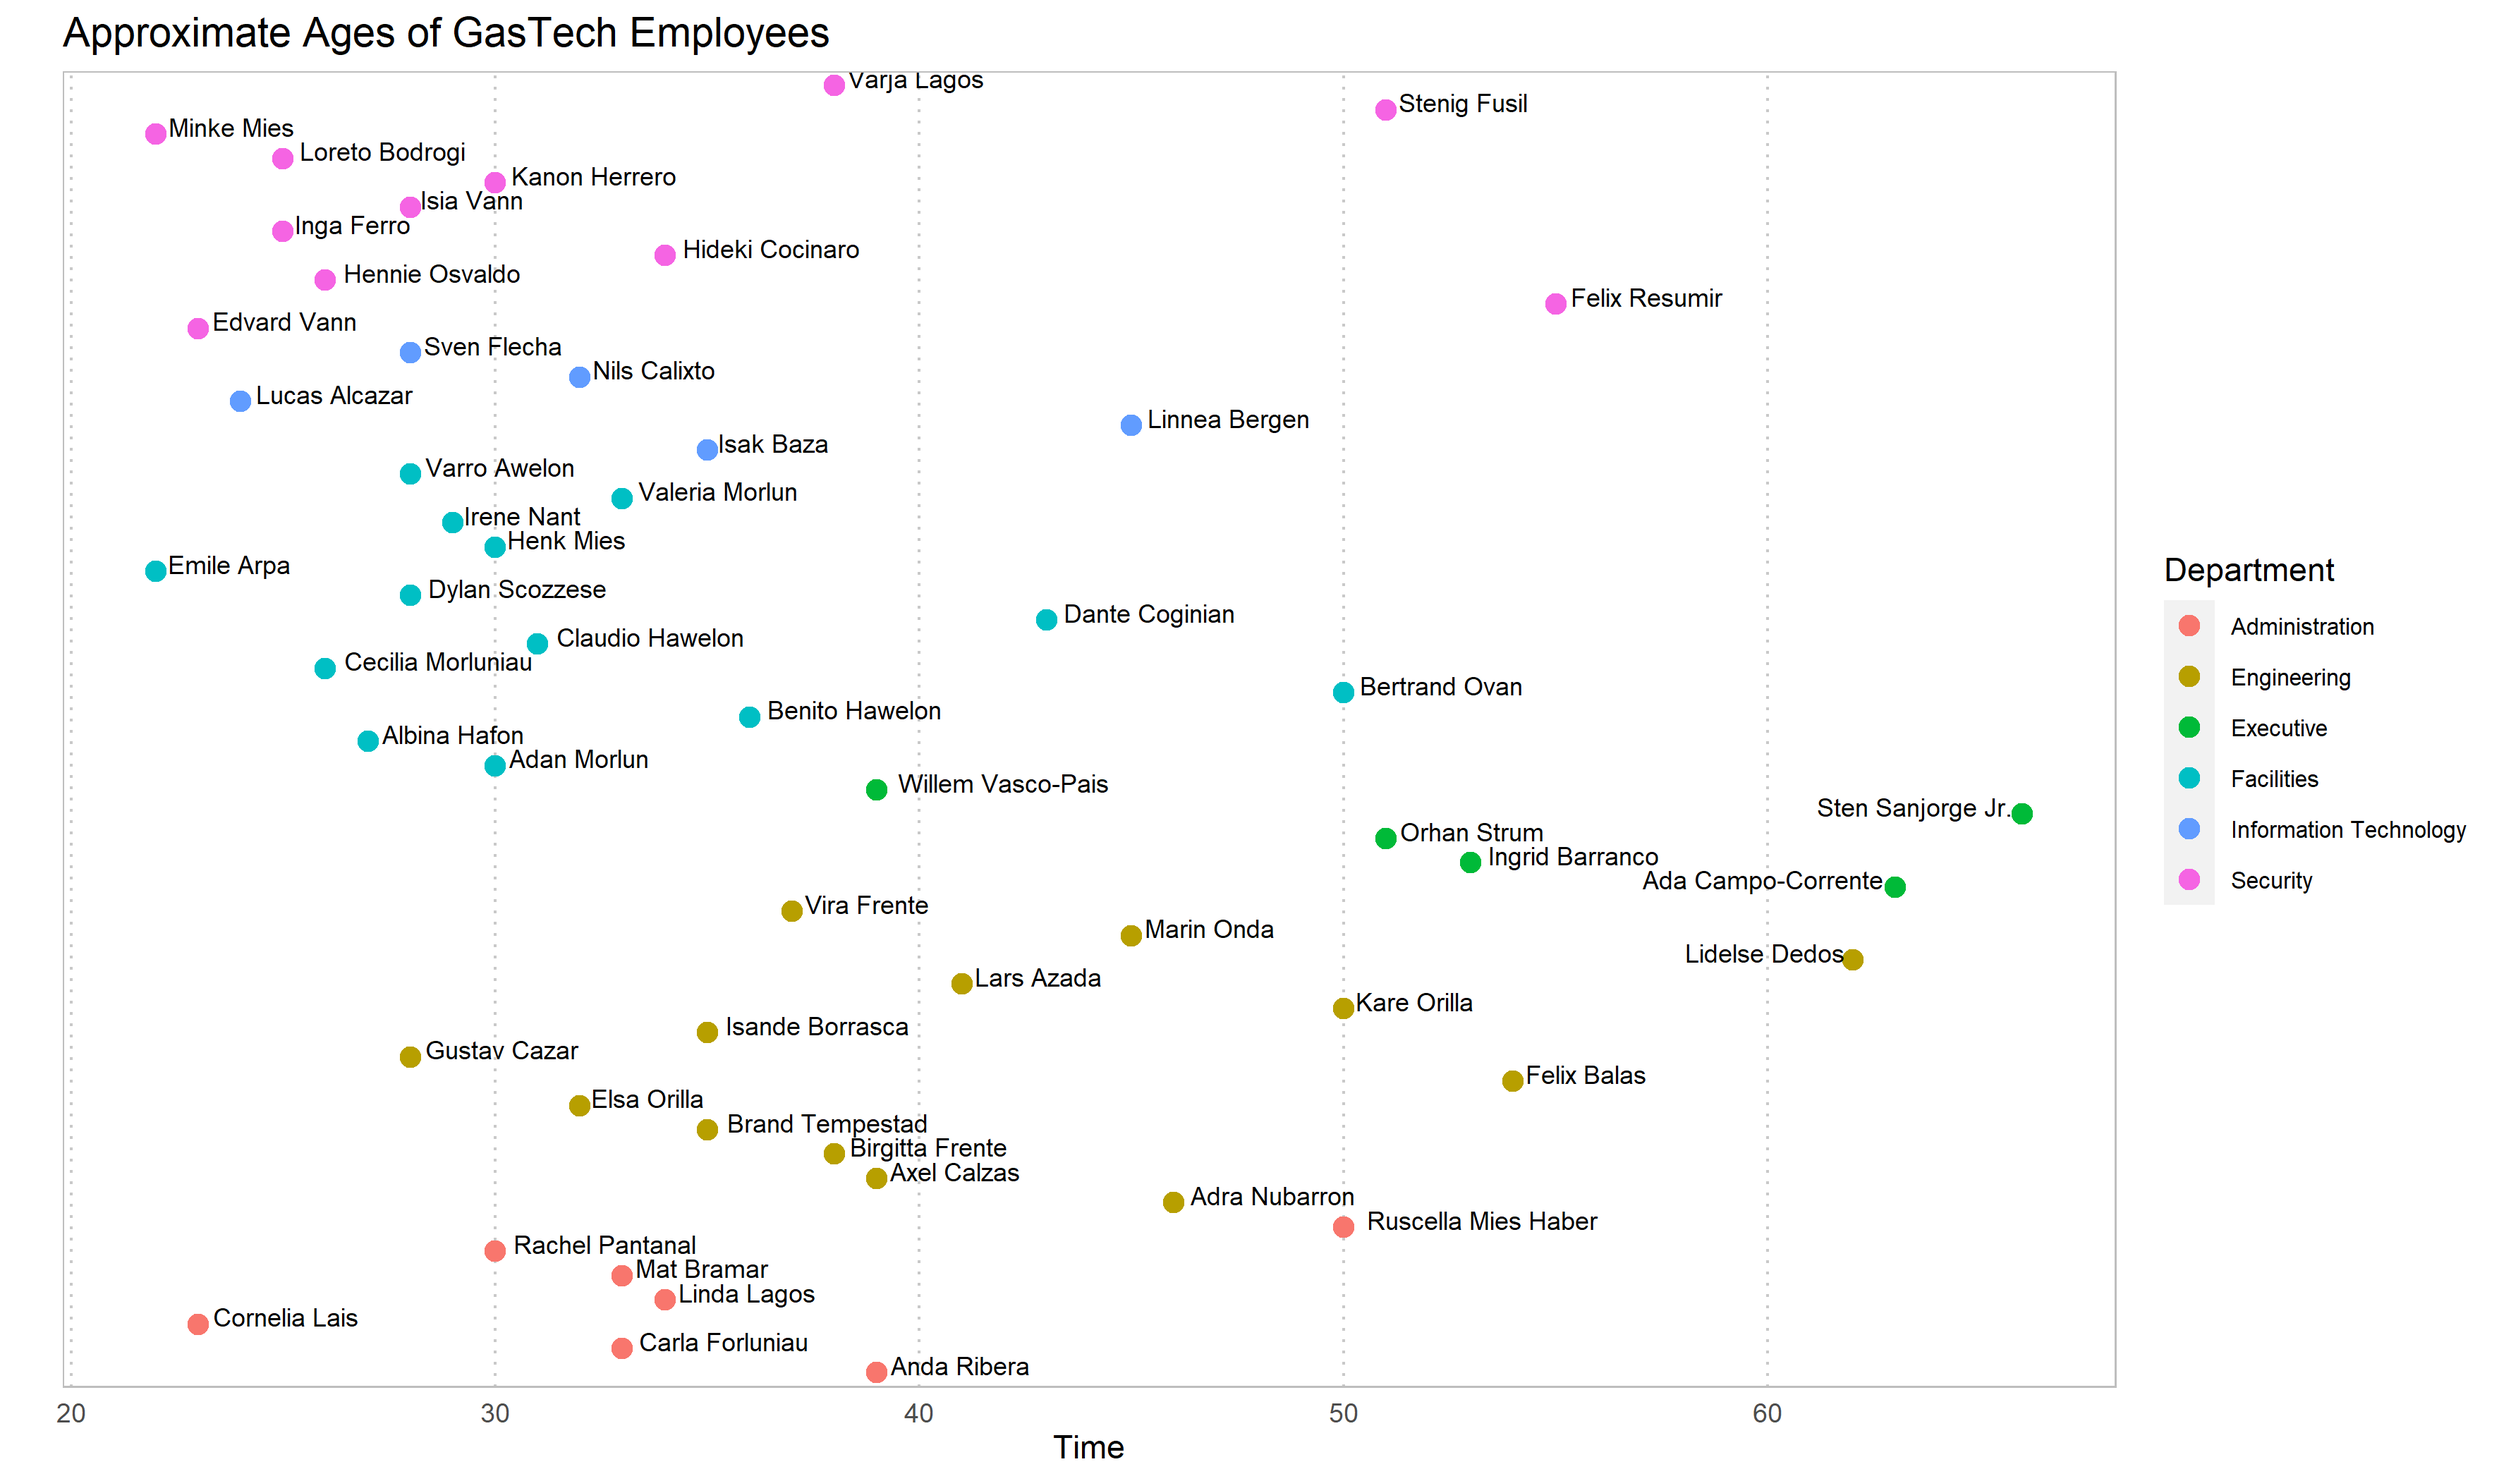
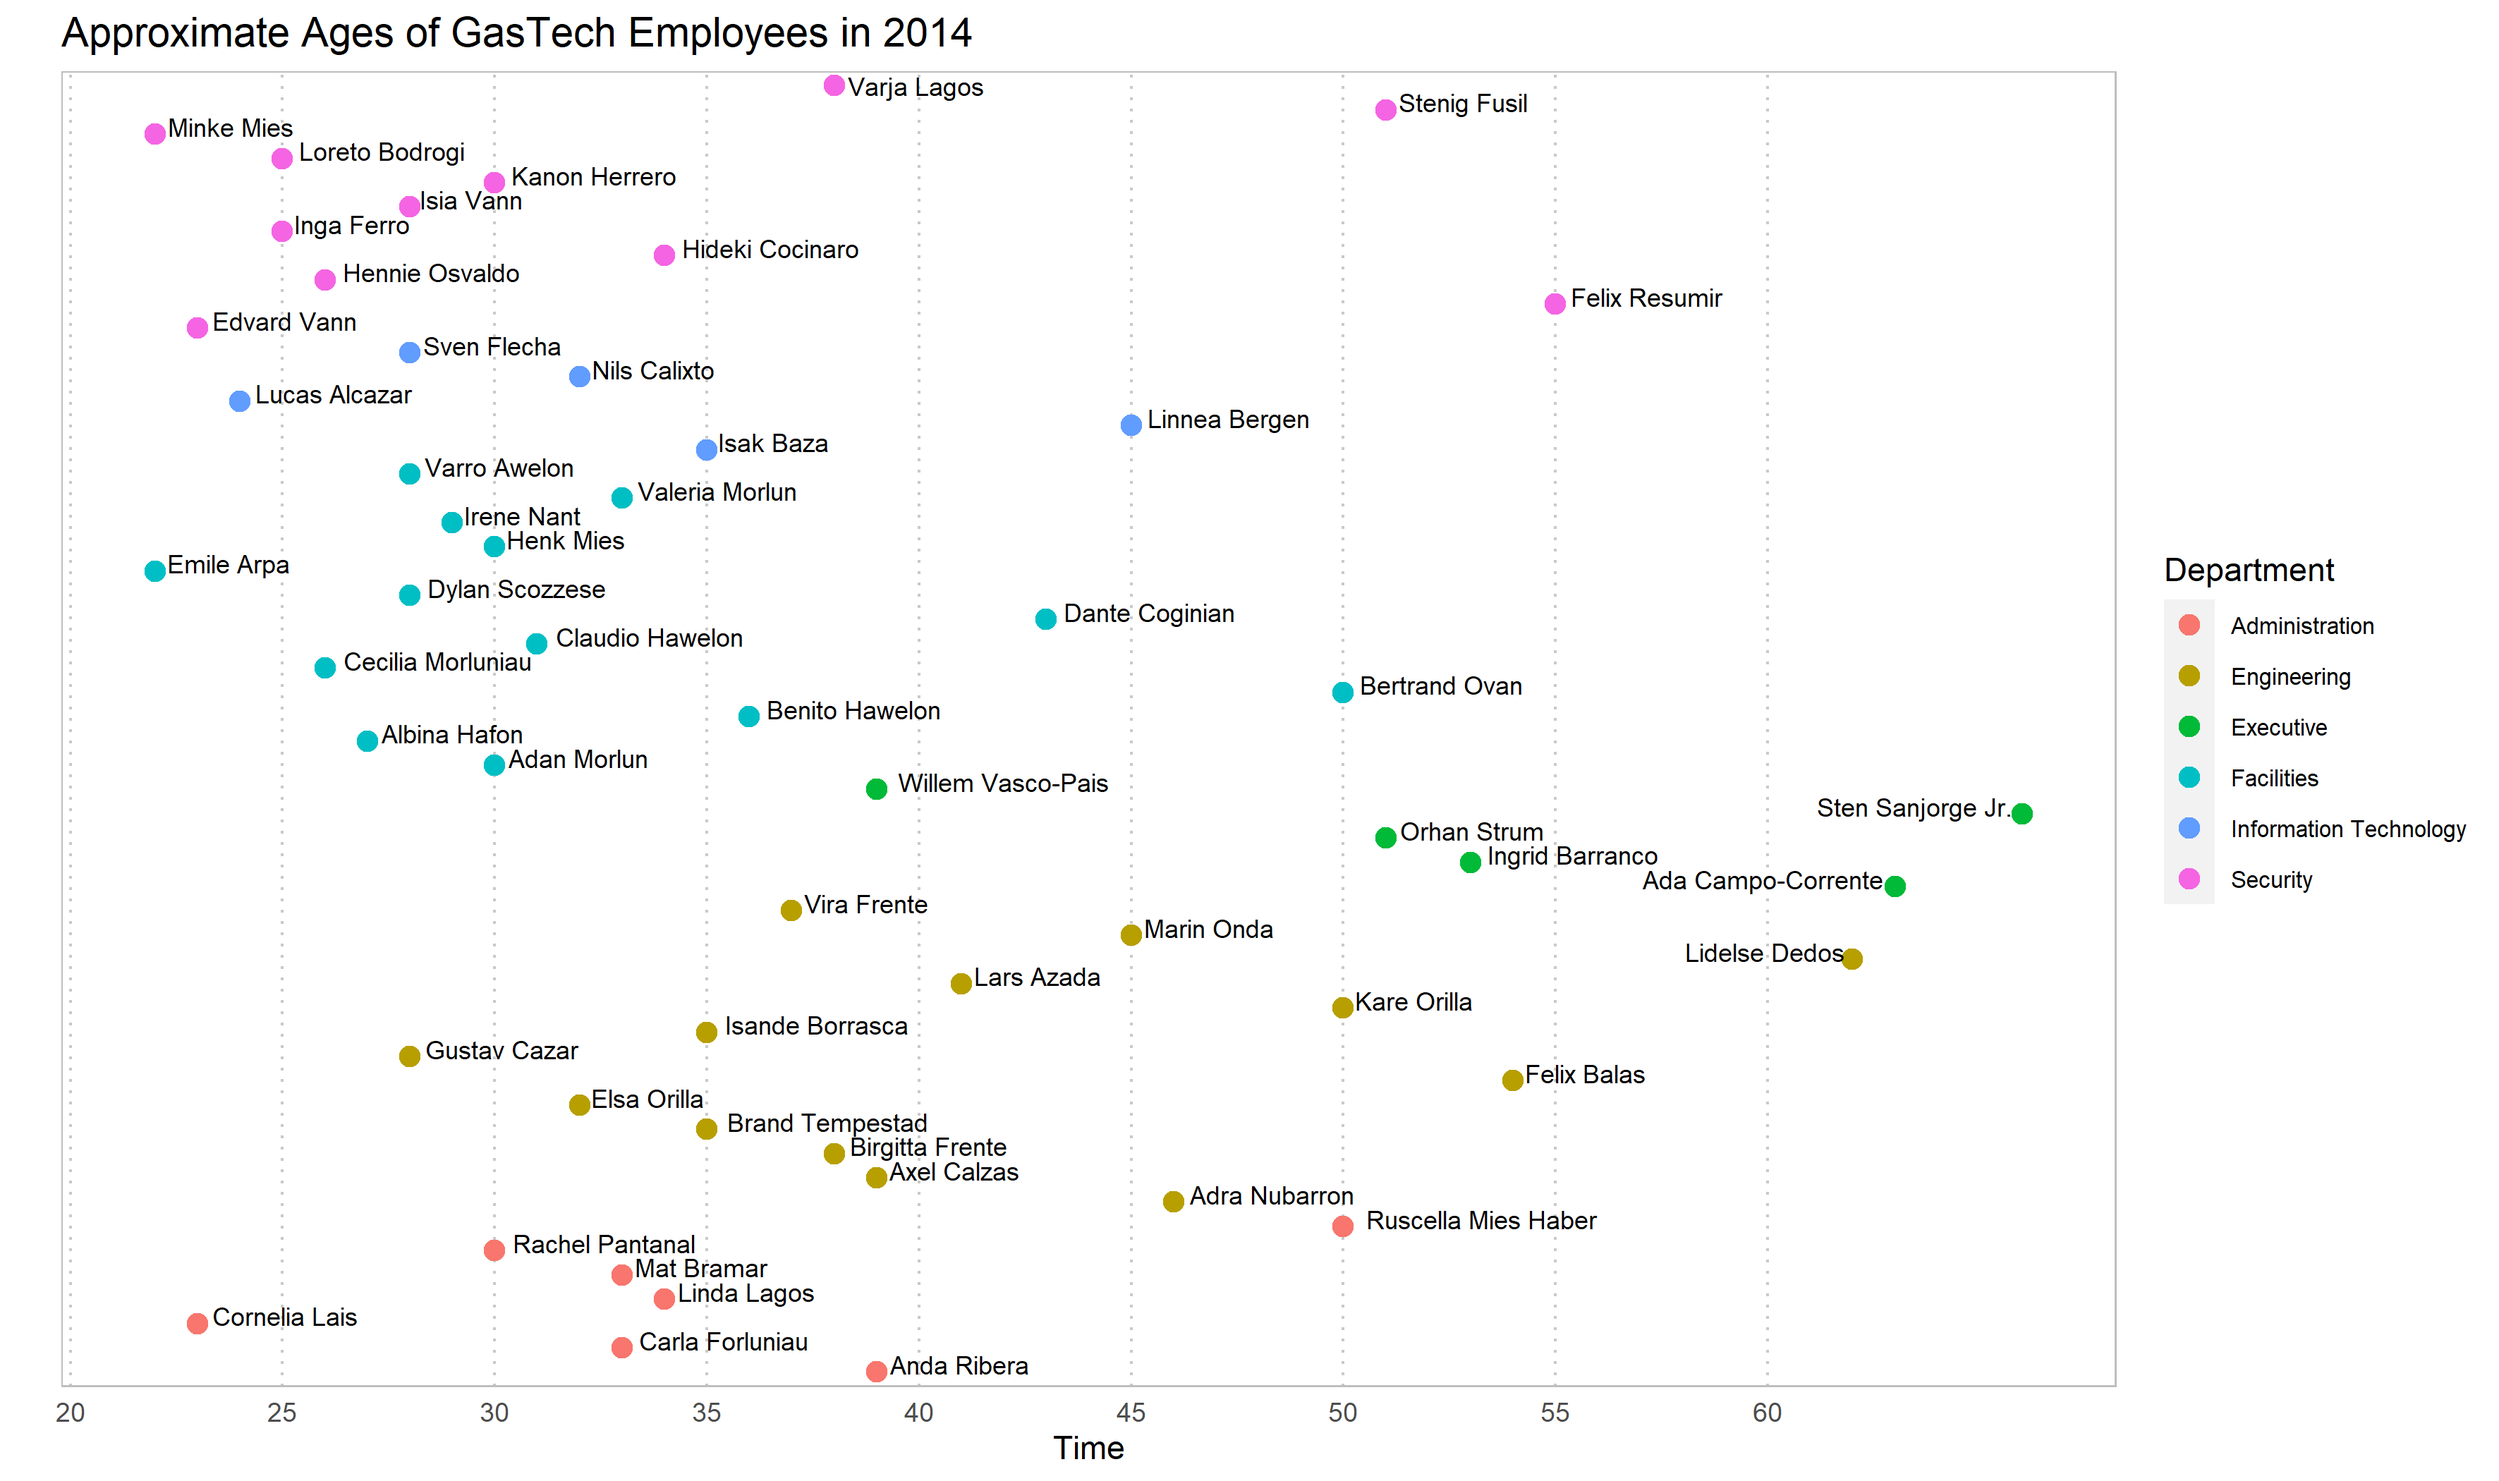
v24

diff --git a/_site/Insights.html b/_site/Insights.html
@@ -2528,7 +2528,10 @@ code span.wa { color: #5e5e5e; font-style: italic; } /* Warning */
 <li><a href="#cluster-4">Cluster 4</a></li>
 <li><a href="#cluster-5">Cluster 5</a></li>
 </ul></li>
-<li><a href="#insights-for-question-3">Insights for Question 3</a></li>
+<li><a href="#insights-for-question-3">Insights for Question 3</a><ul>
+<li><a href="#gastech-the-pok">Gastech &amp; The POK</a></li>
+<li><a href="#apa-the-pok">APA &amp; The POK</a></li>
+</ul></li>
 <li><a href="#question-4">Question 4</a></li>
 </ul>
 </nav>
@@ -2717,39 +2720,51 @@ script src = "https://ajax.googleapis.com/ajax/libs/jquery/3.4.1/jquery.min.js"
 <h2 id="insights-for-question-3">Insights for Question 3</h2>
 <p>The first and second generations of the POK are largely documented by both the 5-year and 10-year historical documents. However, beyond that, the POK members are not identified.</p>
 <p>Based on the last names of the first generation leaders, the possible extended network could be Edward Vann, Loreto Bodrogi, Minke Mies, Ruscella Mies Haber, Hennie Osvaldo, Henk Mies, and Carmine Bodrogi.</p>
+<h3 id="gastech-the-pok">Gastech &amp; The POK</h3>
 <div class="layout-chunk" data-layout="l-body">
-<p><img src="images/5-3-6.png" width="834" /></p>
+<p><img src="images/5-3-6.png" width="700" /></p>
 </div>
 <p>The plot below shows that department network as GasTech</p>
 <div class="layout-chunk" data-layout="l-body">
-<p><img src="images/5-Department_Network.png" width="518" /></p>
+<p><img src="images/5-Department_Network.png" width="700" /></p>
+</div>
+<p>Possible members of the POK coud be in the Facilies or Security department, with the exception of Ruscella Mies Haber, who is in the admin department and assistant to the engineering group manager, Lidelse Dedos.</p>
+<div class="layout-chunk" data-layout="l-body">
+<p><img src="images/5-PotentialPOK.png" width="700" /></p>
+</div>
+<p>Isia Vann, who is Juliana Vann’s brother and a confirmed member of the POK is approximately the same age as the other suspected members of the POK, except for Ruscella Mies Haber. Her age and middle name suggest that she might have been married to Valentine Mies.</p>
+<div class="layout-chunk" data-layout="l-body">
+<p><img src="images/5-Age.png" width="700" /></p>
+</div>
+<p>We can see that, by the text groupings, most of the employees are within their department except for Linnea Bergen. She might also be a part of the extended network of POK.</p>
+<div class="layout-chunk" data-layout="l-body">
+<p><img src="images/5-TextNetwork.png" width="700" /></p>
 </div>
 <div class="layout-chunk" data-layout="l-body">
-<p><img src="images/5-PotentialPOK.png" width="531" /></p>
+<p><img src="images/5-TextNetworkPOK.png" width="700" /></p>
 </div>
 <div class="layout-chunk" data-layout="l-body">
-<p><img src="images/5-TextNetwork.png" width="1610" /></p>
+<p><img src="images/5-3-4.png" width="700" /></p>
 </div>
 <div class="layout-chunk" data-layout="l-body">
-<p><img src="images/5-TextNetworkPOK.png" width="1454" /></p>
+<p><img src="images/5-3-5.png" width="700" /></p>
+</div>
+<p>We can see that there is an overlap between the time served in the army.</p>
+<div class="layout-chunk" data-layout="l-body">
+<p><img src="images/5-3-2.png" width="700" /></p>
 </div>
 <div class="layout-chunk" data-layout="l-body">
-<p><img src="images/5-3-4.png" width="567" /></p>
+<p><img src="images/5-3-3.png" width="700" /></p>
 </div>
+<p>Isia Vann joined GasTech as soon as he was out of the army. This is quite suspicious as he is a confirmed memeber of the POK.</p>
+<p>We can see that in 2013, many of suspected members joined in 2013 in key areas of Security and Facilities.</p>
 <div class="layout-chunk" data-layout="l-body">
-<p><img src="images/5-3-5.png" width="540" /></p>
+<p><img src="images/5-3-7.png" width="700" /></p>
 </div>
+<h3 id="apa-the-pok">APA &amp; The POK</h3>
+<p>Carmine Bodrogi was arrested in 2011 on the intent of possible distribution of MDMC, which is a drug trafficked by the APA. In 2014, Carmine Bodrogi is approximately 21 years old. She might be siblings with Loreto Bodrogi.</p>
 <div class="layout-chunk" data-layout="l-body">
-<p><img src="images/5-3-2.png" width="1181" /></p>
-</div>
-<div class="layout-chunk" data-layout="l-body">
-<p><img src="images/5-3-3.png" width="1181" /></p>
-</div>
-<div class="layout-chunk" data-layout="l-body">
-<p><img src="images/5-Age.png" width="1772" /></p>
-</div>
-<div class="layout-chunk" data-layout="l-body">
-<p><img src="images/5-3-7.png" width="1772" /></p>
+<p><img src="images/5-Carmine.png" width="1340" /></p>
 </div>
 <h2 id="question-4">Question 4</h2>
 <div class="sourceCode" id="cb1"><pre class="sourceCode r distill-force-highlighting-css"><code class="sourceCode r"></code></pre></div>
